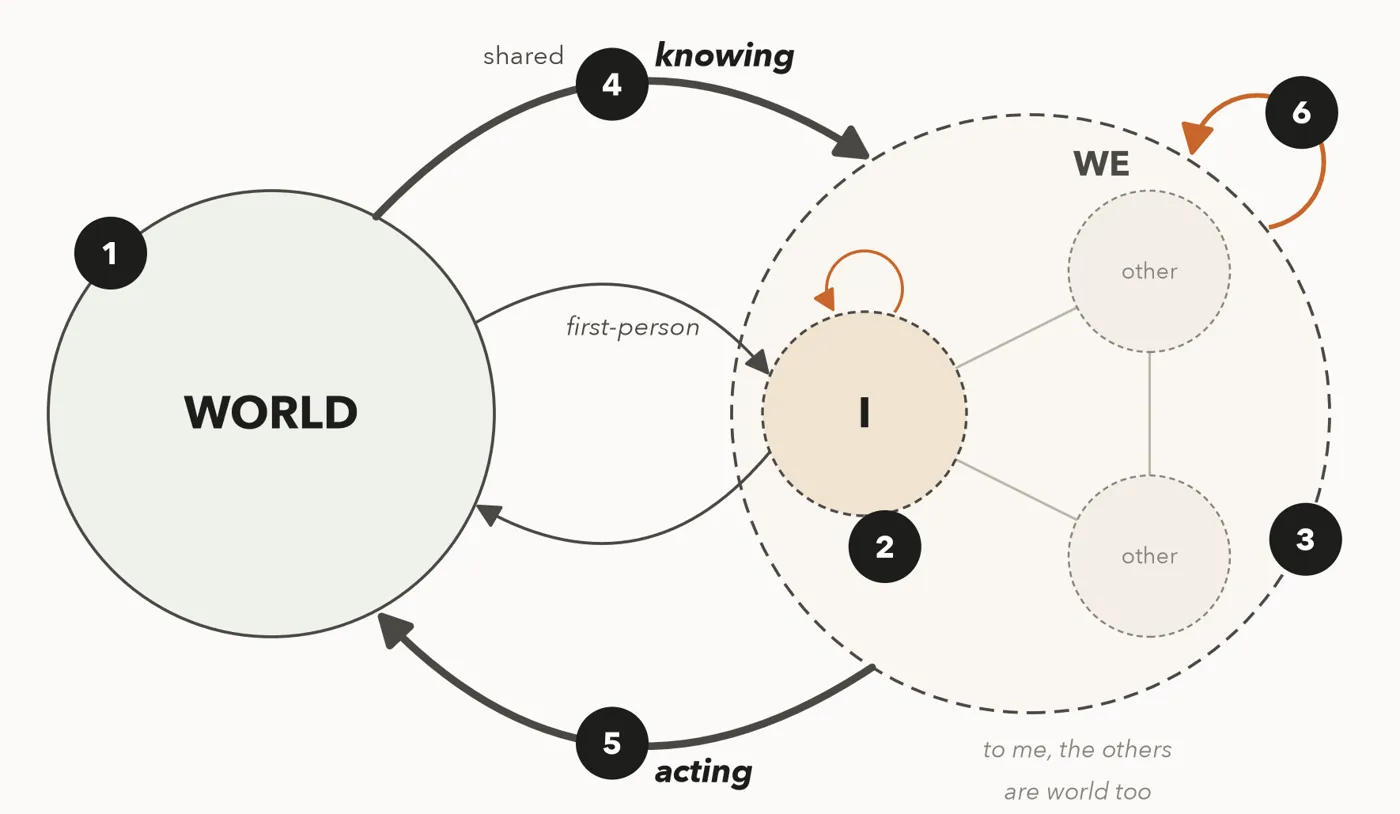
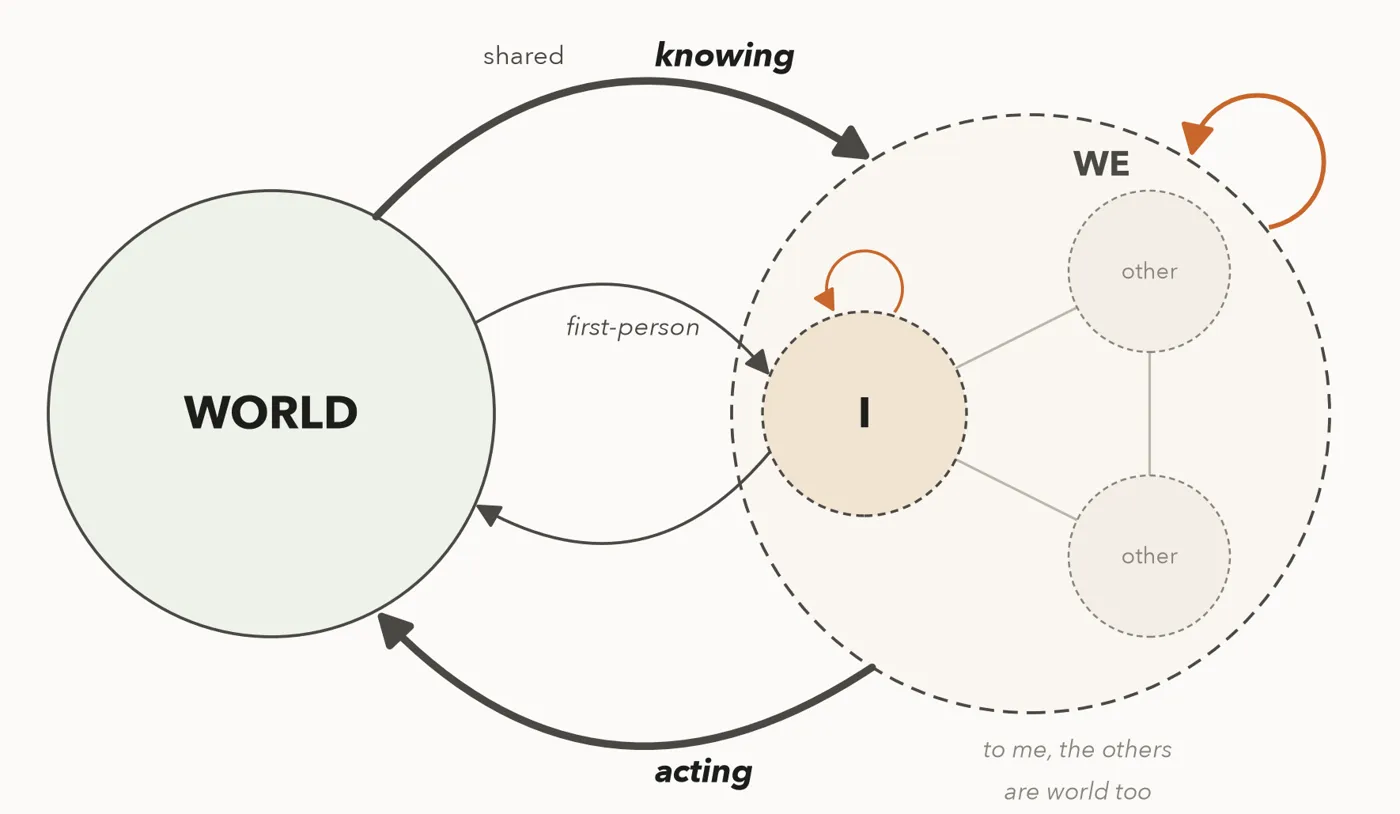
Update: F after fresh critic round 1 - badge-free map, carousel without the all-male grid / cave / sticker shots, theory-gap research copy, 'Things we make', From the room above Latest, credits separators, email link; Gatherings card back to the talk room (Pavel)

diff --git a/preview/home-f/index.html b/preview/home-f/index.html
@@ -76,7 +76,7 @@
   .hero-mark .draw { display: block; width: 100%; }
   .hero-mark .enso { display: block; width: 100%; color: var(--ink); }
   .hero-mark figcaption { margin-top: 14px; text-align: center; font-family: var(--font-display); font-style: italic; color: var(--muted); font-size: 1.05rem; }
-  .hero h1 { font-size: clamp(2.3rem, 4.4vw, 3.6rem); line-height: 1.06; }
+  .hero h1 { text-wrap: balance; font-size: clamp(2.3rem, 4.4vw, 3.6rem); line-height: 1.06; }
   .hero .sub { font-size: 1.16rem; margin: 22px 0 30px; max-width: 30em; color: var(--muted); }
   .hero .btn .play { display: inline-block; width: 0; height: 0; border-left: 8px solid currentColor; border-top: 5px solid transparent; border-bottom: 5px solid transparent; margin-right: 8px; vertical-align: 1px; }
   .hero .facts { color: var(--muted); font-size: 0.96rem; margin: 0 0 24px; }
@@ -111,6 +111,7 @@
   .credits p { margin: 0; line-height: 1.8; }
   .credits i { color: var(--muted); font-size: 0.85em; }
   .credits .nm { white-space: nowrap; }
+  .credits .nm + .nm::before { content: "·"; margin: 0 .55em; color: var(--muted); }
   .credits .k { display: block; font-size: 0.7rem; letter-spacing: 0.16em; text-transform: uppercase; color: var(--muted); margin: 12px 0 0; }
   .credits + section { padding-top: 72px; }
   .section-head { display: flex; align-items: baseline; justify-content: space-between; gap: 16px; margin-bottom: 24px; border-bottom: 1px solid var(--rule); padding-bottom: 10px; }
@@ -265,7 +266,7 @@
     <div class="wrap">
       <figure class="hero-mark" style="margin:0">
         <span class="tile big"><span class="draw"><span class="enso" role="img" aria-label="Ensō, a brush-drawn circle"></span></span></span>
-        <figcaption>Everything arises from relations.</figcaption>
+        <figcaption><a href="#why" style="text-decoration:none">Everything arises from relations.</a></figcaption>
       </figure>
       <div class="copy">
         <h1>We study how life knows itself.</h1>
@@ -279,35 +280,43 @@
   </section>
 
   <section class="wrap credits" aria-label="Advisors and speakers">
-    <p><span class="k">Advisors</span><span class="nm">John Dunne <i>UW-Madison</i></span> · <span class="nm">Francis Heylighen <i>VUB</i></span></p>
-    <p><span class="k">Speakers have included</span><span class="nm">Michael Levin <i>Tufts</i></span> · <span class="nm">Neil Theise <i>NYU</i></span> · <span class="nm">Gary Lupyan <i>UW-Madison</i></span> · <span class="nm">Adam Safron <i>Tufts</i></span> · <span class="nm">Chaitanya Gokhale <i>Würzburg</i></span> · <span class="nm">Alan Rodrigues <i>Rockefeller</i></span> · <span class="nm">Marc Santolini <i>Learning Planet Institute</i></span></p>
+    <p><span class="k">Advisors</span><span class="nm">John Dunne <i>UW-Madison</i></span> <span class="nm">Francis Heylighen <i>VUB</i></span></p>
+    <p><span class="k">Speakers have included</span><span class="nm">Michael Levin <i>Tufts</i></span> <span class="nm">Neil Theise <i>NYU</i></span> <span class="nm">Gary Lupyan <i>UW-Madison</i></span> <span class="nm">Adam Safron <i>Tufts</i></span> <span class="nm">Chaitanya Gokhale <i>Würzburg</i></span> <span class="nm">Alan Rodrigues <i>Rockefeller</i></span> <span class="nm">Marc Santolini <i>Learning Planet Institute</i></span></p>
   </section>
 
   <section class="wrap" id="what" aria-labelledby="what-h">
     <div class="section-head"><h2 id="what-h">What we do</h2></div>
-    <p class="lead">We are building the scientific culture we wish existed. The way we work is itself the experiment.</p>
+    <p class="lead">Contemplative traditions suggest the hypotheses. Complexity science looks for the mechanisms. Our gatherings keep us honest by making us practice what we study.</p>
     <div class="doing">
       <a href="#">
         <div class="thumb"><img src="../assets/research-map.webp" style="object-fit: contain; background: #faf8f3" alt="Diagram from the Honest Science proceedings: world, self and others, linked by knowing and acting" loading="lazy" /></div>
         <span class="verb">Research</span>
-        <h3>Open questions, worked on together</h3>
-        <p>A review paper on a complexity theory of mindfulness (in preparation), a shared map of the field, and ongoing discussion of goals and contexts, and of causality in complex systems.</p>
+        <h3>Theory for contemplative science</h3>
+        <p>Contemplative research has many experiments and little theory. We are writing a review toward a complexity theory of mindfulness, and mapping the field's open questions.</p>
         <span class="more">Research directions →</span>
       </a>
       <a href="#">
-        <div class="thumb"><img src="../assets/chalk2.webp" style="object-position: 50% 60%" alt="Alan Rodrigues at a chalkboard during his keynote at the CCS26 satellite" loading="lazy" /></div>
+        <div class="thumb"><img src="../assets/talk.webp" alt="A talk in a wood-beamed hall, participants seated informally" loading="lazy" /></div>
         <span class="verb">Gatherings</span>
-        <h3>Meetings designed to think well</h3>
+        <h3>Gatherings designed for thinking well</h3>
         <p>Week-long research retreats at INTP in the Pyrenees, a satellite session at the Complex Systems conference, and a monthly call.</p>
         <span class="more">Upcoming and past →</span>
       </a>
       <a href="#">
         <div class="thumb labelled"><img src="../assets/hs-title.webp" alt="Title card of the film Honest Science: science that includes the scientist" loading="lazy" /><span class="chip"><span class="tri" aria-hidden="true"></span>Film · 4 min</span></div>
         <span class="verb">Tools &amp; media</span>
-        <h3>Things you can use</h3>
+        <h3>Things we make</h3>
         <p><em>Honest Science</em>, a short film about science that includes the scientist. Work Alive, an app that guides focused work as a practice. Recorded talks, proceedings, and a questionnaire on how researchers come to know things.</p>
         <span class="more">Talks, films and tools →</span>
       </a>
+    </div>
+  </section>
+
+  <section class="wrap" aria-labelledby="room-h">
+    <div class="section-head"><h2 id="room-h">From the room</h2></div>
+    <div class="pair">
+      <blockquote><span class="k">Asked the room</span><p>Asked where an observer's influence is most underestimated, 6 of 10 answers pointed to the step before measurement: choosing what to study.</p><footer>Poll, CCS26 satellite session, October 2026</footer></blockquote>
+      <blockquote><span class="k">A feeling</span><p>"I feel calm, unlike most conference days."</p><footer>Participant, same session</footer></blockquote>
     </div>
   </section>
 
@@ -316,13 +325,6 @@
     <ul class="latest" id="latest"></ul>
   </section>
 
-  <section class="wrap" aria-labelledby="room-h">
-    <div class="section-head"><h2 id="room-h">From the room</h2></div>
-    <div class="pair">
-      <blockquote><span class="k">A finding</span><p>Asked where an observer's influence is most underestimated, 6 of 10 answers pointed to the step before measurement: choosing what to study.</p><footer>Poll, CCS26 satellite session, October 2026</footer></blockquote>
-      <blockquote><span class="k">A feeling</span><p>"I feel calm, unlike most conference days."</p><footer>Participant, same session</footer></blockquote>
-    </div>
-  </section>
 
   <section class="wrap" aria-labelledby="who-h">
     <div class="section-head"><h2 id="who-h">People</h2><a href="#">People and advisors →</a></div>
@@ -330,20 +332,17 @@
       <figure class="carousel" aria-roledescription="carousel" aria-label="Photos from our gatherings">
         <div class="frame">
           <img src="../assets/group.webp" alt="Honest Science participants, French Pyrenees, 2026" style="object-position:50% 50%" class="on" />
-          <img src="../assets/talk.webp" alt="A talk at the Honest Science workshop, 2026" style="object-position:50% 55%" />
-          <img src="../assets/s-cowork.webp" alt="Working side by side, INTP retreat, 2025" style="object-position:50% 50%" />
-          <img src="../assets/g-cscsc25.webp" alt="CSCSC25, our first conference, online, October 2025" style="object-position:50% 50%" />
-          <img src="../assets/s-qigong.webp" alt="Morning practice in the forest, INTP retreat, 2025" style="object-position:50% 45%" />
+          <img src="../assets/g-trailer45.webp" alt="Working side by side at INTP, 2026" style="object-position:50% 50%" />
           <img src="../assets/c-lunch.webp" alt="Lunch on the terrace, Honest Science, 2026" style="object-position:50% 40%" />
-          <img src="../assets/s-cave.webp" alt="Exploring the caves, Honest Science, 2026" style="object-position:50% 45%" />
-          <img src="../assets/c-fire.webp" alt="The closing circle by the fire, Honest Science, 2026" style="object-position:50% 50%" />
+          <img src="../assets/s-qigong.webp" alt="Morning practice in the forest, INTP retreat, 2025" style="object-position:50% 45%" />
+          <img src="../assets/c-fire.webp" alt="Last evening, Honest Science, 2026" style="object-position:50% 50%" />
           <button class="arrow prev" type="button" aria-label="Previous photo">‹</button>
           <button class="arrow next" type="button" aria-label="Next photo">›</button>
         </div>
-        <div class="under"><figcaption>Honest Science participants, French Pyrenees, 2026</figcaption><div class="dots"><button type="button" aria-label="Photo 1" aria-current="true"></button><button type="button" aria-label="Photo 2"></button><button type="button" aria-label="Photo 3"></button><button type="button" aria-label="Photo 4"></button><button type="button" aria-label="Photo 5"></button><button type="button" aria-label="Photo 6"></button><button type="button" aria-label="Photo 7"></button><button type="button" aria-label="Photo 8"></button></div></div>
+        <div class="under"><figcaption>Honest Science participants, French Pyrenees, 2026</figcaption><div class="dots"><button type="button" aria-label="Photo 1" aria-current="true"></button><button type="button" aria-label="Photo 2"></button><button type="button" aria-label="Photo 3"></button><button type="button" aria-label="Photo 4"></button><button type="button" aria-label="Photo 5"></button></div></div>
       </figure>
       <div>
-        <p>Physicists, biologists, cognitive scientists, philosophers and anthropologists, many with long contemplative practice. The community is run by volunteers and is still young: its shape is being worked out in public.</p>
+        <p>About 150 physicists, biologists, cognitive scientists, philosophers and contemplative practitioners, meeting since 2025. The community is run by volunteers and is still young: its shape is being worked out in public.</p>
         <p class="partners">With <b>INTP</b>, Institut Natura e Teoria en Pirenèus · a satellite of <b>CCS26</b>, the Conference on Complex Systems</p>
       </div>
     </div>
@@ -362,7 +361,7 @@
 
   <section class="join-sec" id="join" aria-labelledby="join-h">
     <div class="wrap">
-      <h2 id="join-h">Join the community</h2>
+      <h2 id="join-h">Help build the scientific culture we wish existed</h2>
       <div>
         <ul>
           <li>One email a month: calls, gatherings, new talks and writing, research and funding openings</li>
@@ -380,7 +379,7 @@
     <div>
       <a class="lockup" href="./"><span class="tile"><span class="enso" aria-hidden="true"></span></span><span><b>CSCSC</b></span></a>
       <p style="margin:10px 0 0">Complexity Science &amp; Contemplative Studies Consortium</p>
-      <p>cscs.conference at gmail dot com</p>
+      <p><a href="#" class="mail" data-u="cscs.conference" data-d="gmail.com">Write to us</a></p>
     </div>
     <div><h4>Explore</h4><ul><li><a href="#">Research</a></li><li><a href="#">Gatherings</a></li><li><a href="#">Tools &amp; media</a></li><li><a href="#">Writing</a></li></ul></div>
     <div><h4>Watch</h4><ul><li><a href="../../">The vision animation</a></li><li><a href="#">Films and talks</a></li></ul></div>
@@ -392,6 +391,7 @@
 
 <script src="../assets/data.js"></script>
 <script src="../assets/proto.js"></script>
+<script>document.querySelectorAll("a.mail").forEach((a) => { a.href = "mailto:" + a.dataset.u + "@" + a.dataset.d; });</script>
 <script>
   // People carousel: arrows, dots, auto-advance every 6 s (paused on hover and under reduced motion).
   (() => {
@@ -409,6 +409,7 @@
     c.querySelector(".next").onclick = () => { stop(); show(i + 1); start(); };
     dots.forEach((d, n) => d.onclick = () => { stop(); show(n); start(); });
     c.addEventListener("mouseenter", stop); c.addEventListener("mouseleave", start);
+    c.addEventListener("focusin", stop); c.addEventListener("focusout", start);
     start();
   })();
 </script>
